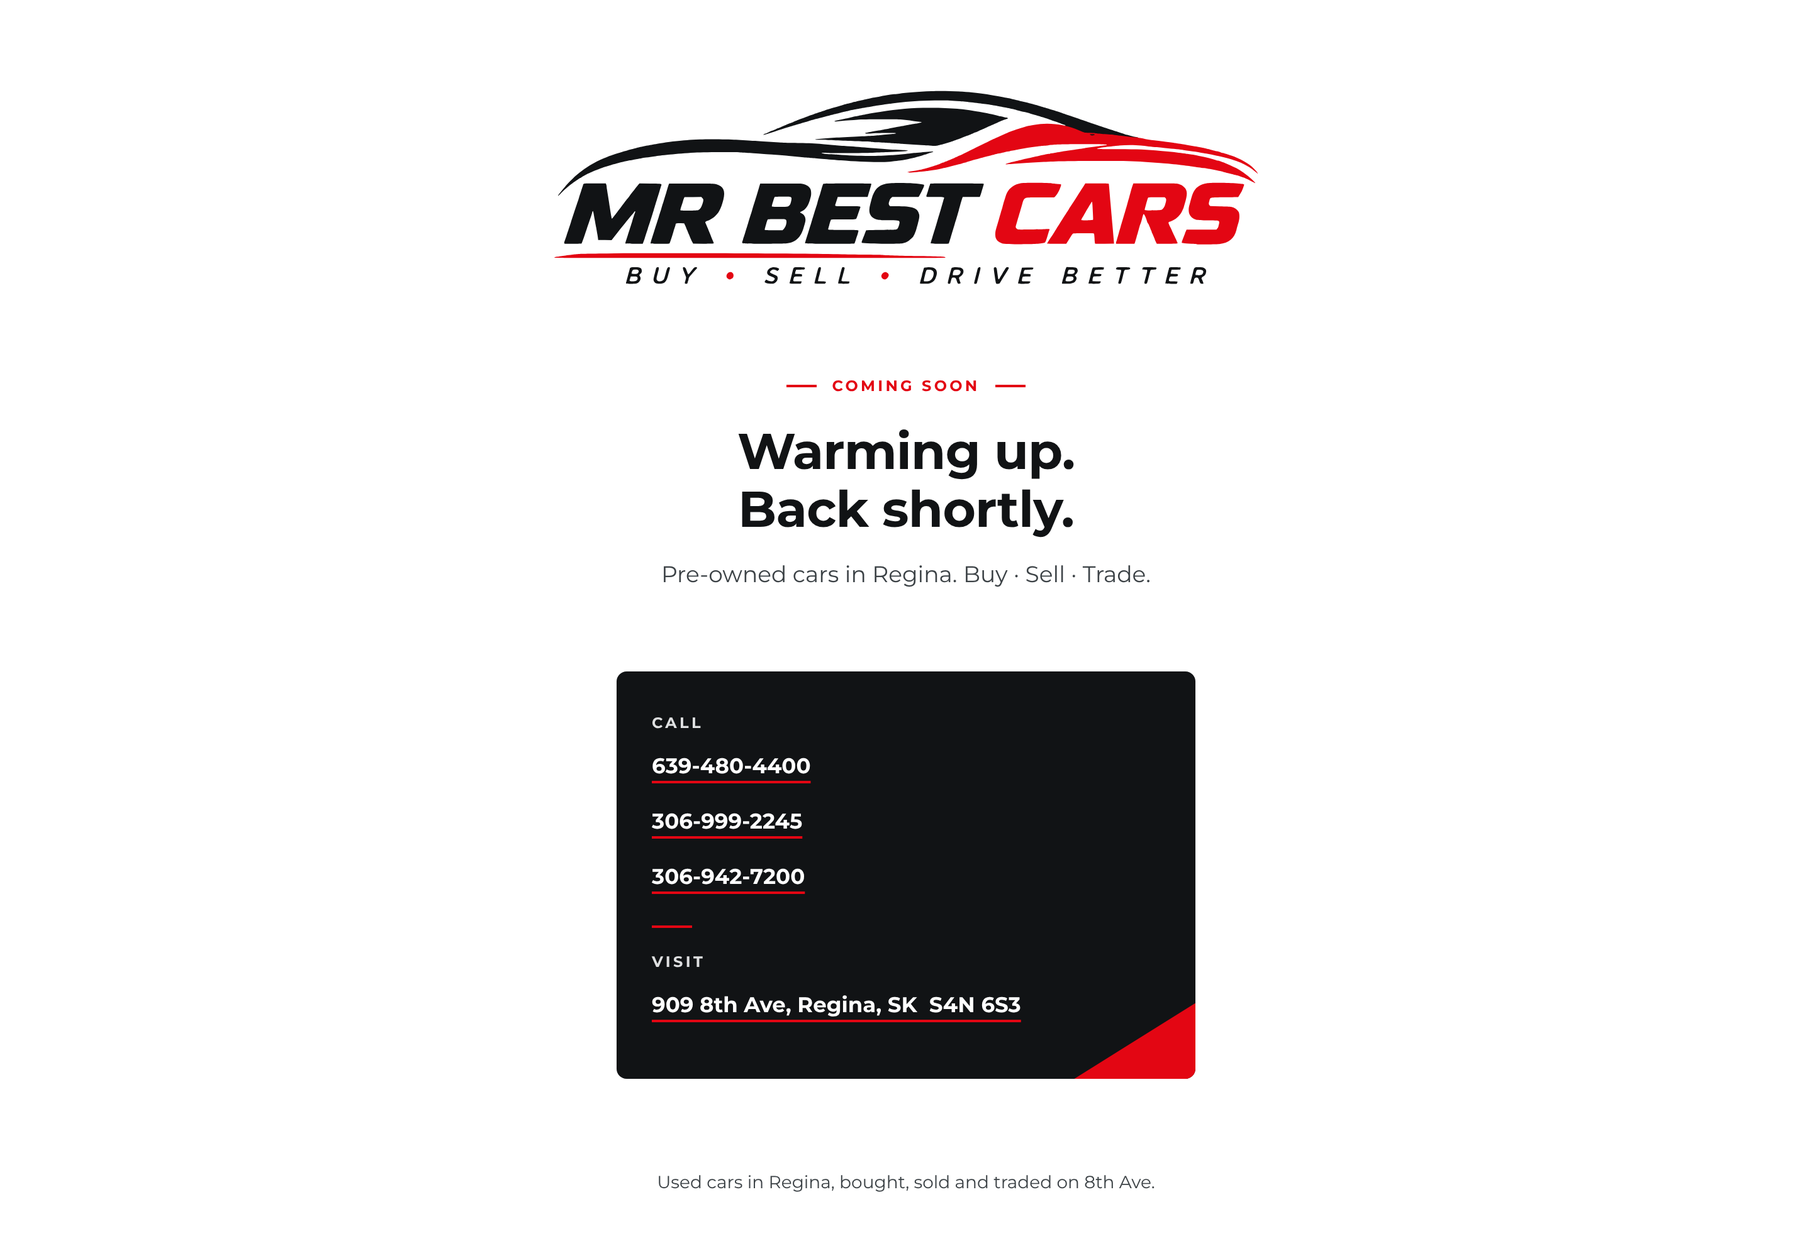
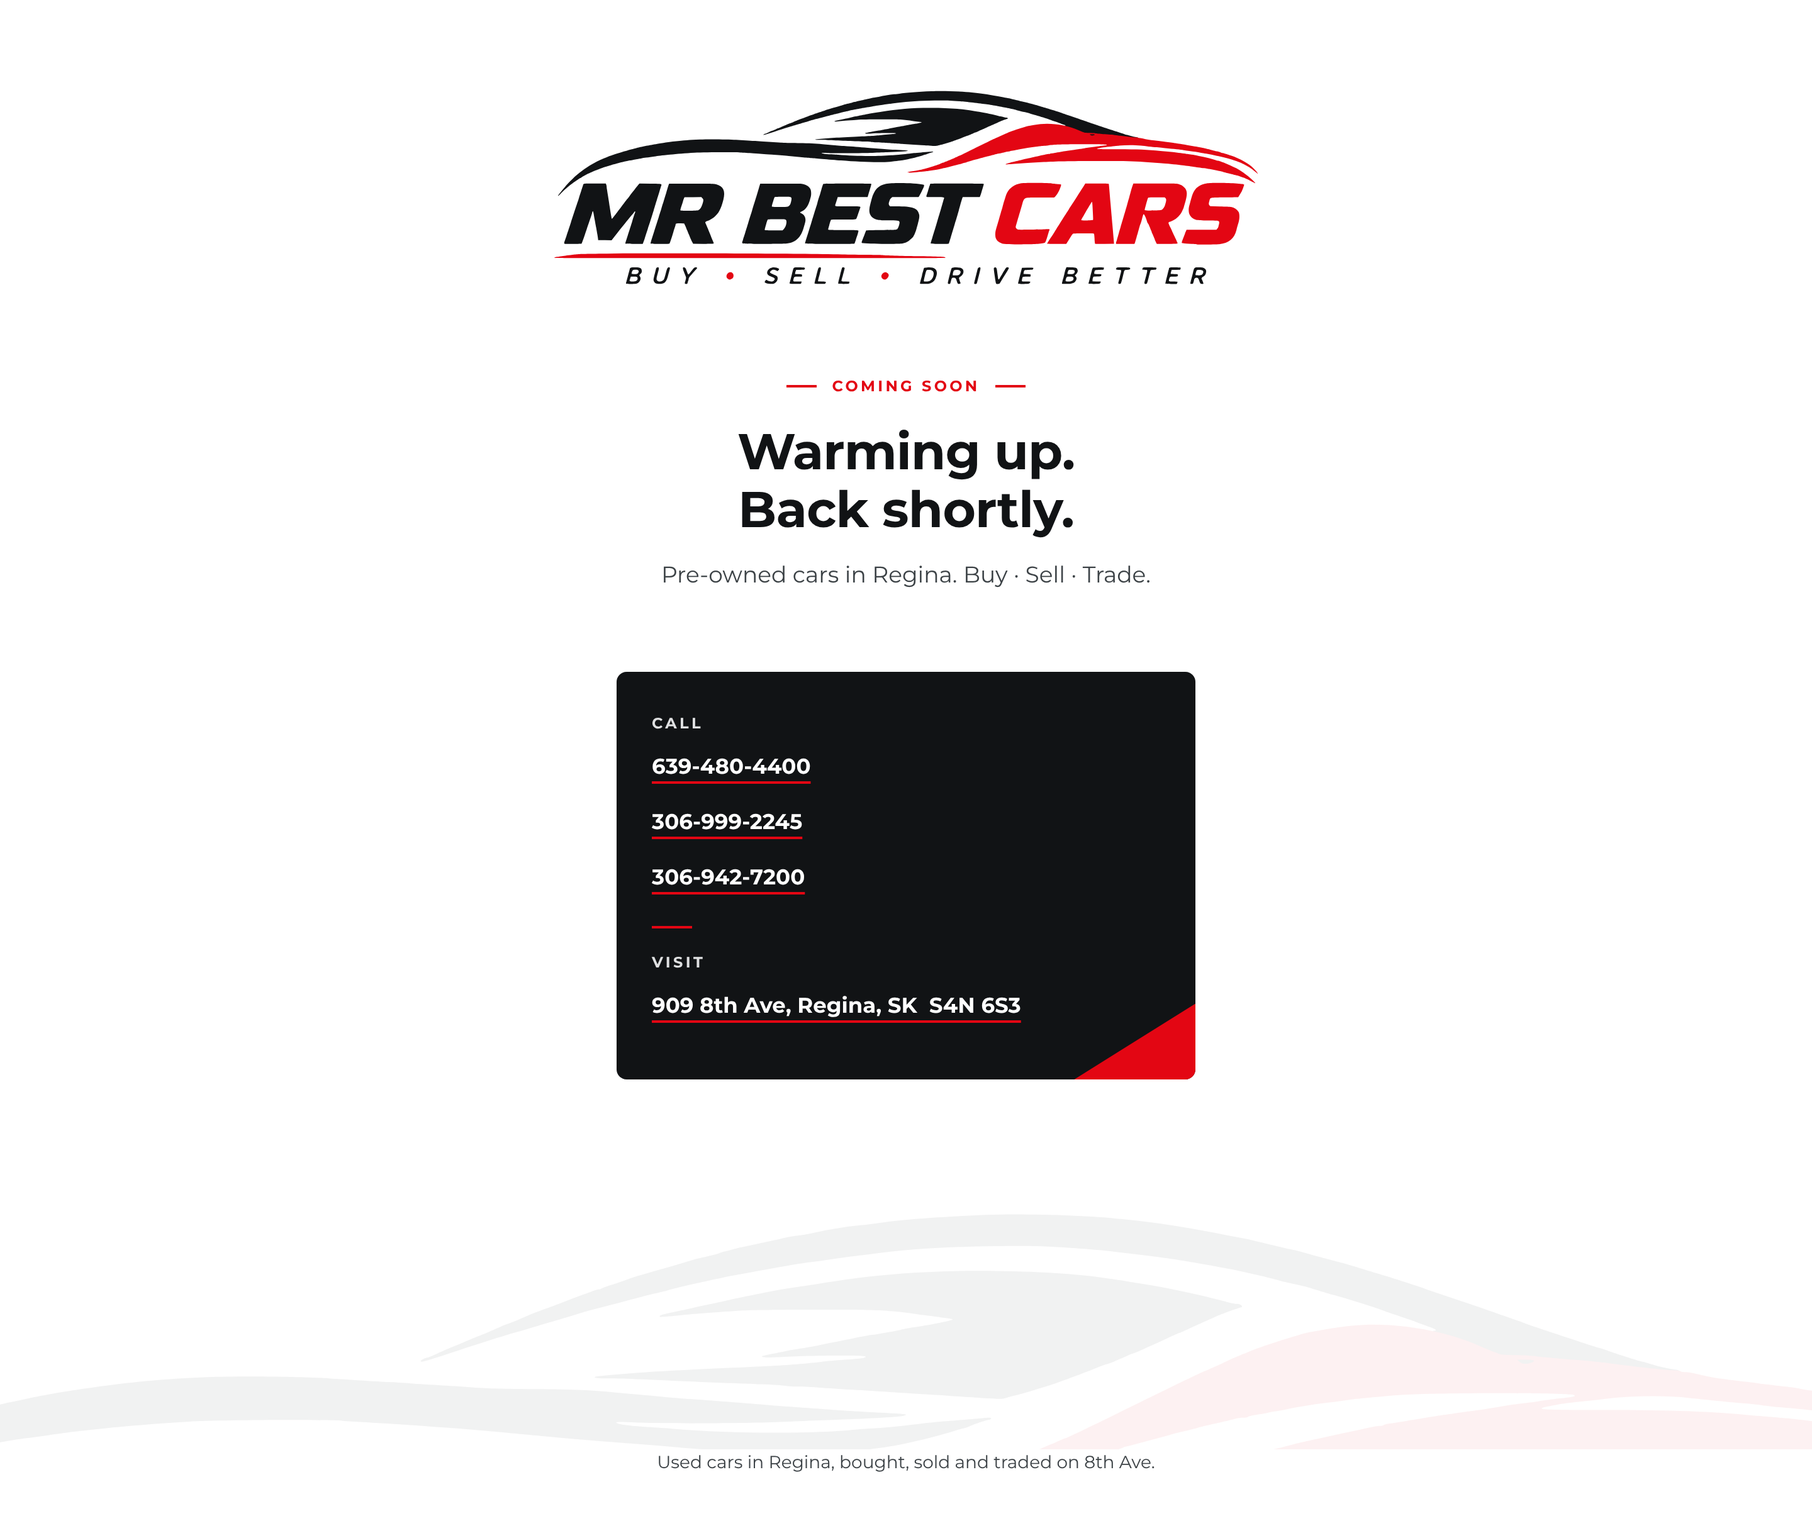
Ship sedan-mark background (Option A) on main page; remove /swym/preview-bg/
Claude-Session: https://claude.ai/code/session_0111nycAP5oJUybwEeT2RRwK

Changed region(s): [[0.3125, 0.0621, 0.6875, 0.8998], [0.5312, 0.9308, 0.625, 0.9619]]

diff --git a/site/swym/index.html b/site/swym/index.html
@@ -49,6 +49,8 @@ h1{margin-top:20px;max-width:16ch;font-size:clamp(2rem,1.6rem + 1.6vw,2.5rem);fo
 .links a:hover{text-decoration-color:var(--white)}
 a:focus-visible{outline:2px solid var(--white);outline-offset:3px;border-radius:4px}
 footer{padding:0 16px 32px;text-align:center;color:var(--slate);font-size:.875rem}
+.bg-a{position:relative;z-index:0;height:clamp(90px,16vw,230px);overflow:hidden;margin-top:-8px;pointer-events:none}
+.bg-a .bg-sedan{position:absolute;left:50%;transform:translateX(-50%);top:18%;width:max(130vw,700px);height:auto;opacity:.05}
 .veil{display:none}
 html.intro .veil{display:block;position:fixed;inset:0;z-index:10;background:var(--white);animation:mbc-out .4s 2.5s forwards}
 html.intro .site-header{position:relative;z-index:11}
@@ -110,6 +112,7 @@ html.intro #car-wipe-rect,html.intro #underline-wipe-rect{transform:scaleX(0);an
     </ul>
   </address>
 </main>
+<div class="bg-a" aria-hidden="true"><svg class="bg-sedan" viewBox="0 0 1138 172" aria-hidden="true" focusable="false"><path class="k" d="M7.2 165.4C12.4 160.2 19.2 154.3 24.5 150.6C29.3 147.2 37 142 37.3 142C37.5 142 38.2 141.6 38.9 141.1C40.2 140.2 44.2 137.9 48 135.9C49 135.4 51 134.5 52.6 133.8C54.2 133.1 56.7 132 58.1 131.3C59.6 130.7 61.5 129.9 62.5 129.5C63.5 129.2 64.7 128.7 65.2 128.5C65.8 128.3 67.5 127.6 69.1 127C70.7 126.5 73.2 125.6 74.6 125C79.8 123.1 92.8 119.3 100 117.5C103.5 116.6 114.8 114.1 117.8 113.5C119.4 113.2 121.7 112.7 122.8 112.5C123.8 112.2 126.2 111.8 128 111.5C129.8 111.2 133.2 110.6 135.5 110.2C137.8 109.8 141.7 109.2 144 108.9C148.7 108.4 152.4 107.9 157.8 107C162.8 106.2 169 105.5 183.2 104C193.7 102.9 208 101.8 222.8 100.9C237.1 100.1 286.7 99.8 296.8 100.5C301.4 100.8 311.1 101.4 318.2 101.8C330.8 102.6 333.4 102.8 348 103.9C351.7 104.2 357.9 104.7 361.8 105C365.6 105.3 370.9 105.8 373.5 106C376.1 106.3 380.7 106.7 383.8 107C386.8 107.3 391.5 107.7 394.2 108C410 109.5 412.2 109.6 429.8 111C438.2 111.6 453.7 112.9 460.5 113.5C490.6 116.1 525.2 117 539.8 115.6C553.3 114.2 561.5 113.1 568.8 111.5C579.6 109.1 588.4 106.8 594 104.9C595.6 104.4 597.1 104 597.4 104C597.7 104 599 103.6 600.1 103C602.5 101.9 608.4 100 609.3 100C609.6 100 610 99.7 610.1 99.4C610.3 98.9 609.1 98.9 604.1 99.4C600.6 99.7 594.4 100.2 590.2 100.5C586.1 100.8 581.1 101.3 579 101.5C568.1 102.9 560.5 103.7 554 104.1C550 104.3 544.6 104.7 542 105C520.1 106.9 483.1 106.6 455.8 104.3C453.8 104.1 448.5 103.8 444 103.5C434.8 102.9 429 102.1 429 101.3C429 101 432.1 101 437.9 101.3C451.1 102 491.1 101.8 508.2 101.1C516.5 100.7 528.8 100.2 535.5 100C552.5 99.4 566 98.6 567.8 98.1L569.2 97.6L568 97.3C567.3 97.2 564.3 96.9 561.2 96.8C550.4 96.3 537.1 95.5 531 95C527.6 94.7 521.5 94.3 517.5 94C513.5 93.7 507.3 93.3 503.8 93C490 91.9 479.9 91.1 465 90C461.8 89.8 456.7 89.3 453.5 89.1C450.3 88.8 445.1 88.3 441.8 88C438.4 87.7 433.4 87.3 430.5 87C417.1 85.7 409.3 85.3 390.2 85.2C379 85.2 366.6 84.9 362.8 84.6C358.9 84.3 351.9 83.8 347.2 83.5C342.6 83.2 335.1 82.8 330.8 82.5C326.4 82.2 321.2 81.9 319.2 81.8C313.9 81.5 299.2 80.6 290.2 80C276.9 79.1 246.4 78.8 231.2 79.4C213.7 80.2 205.9 80.8 190.2 82.5C183.4 83.3 168.4 85.4 162 86.5C156.1 87.5 147.7 89.1 145.8 89.5C142.3 90.2 139.4 90.9 136.5 91.5C133.8 92 132.2 92.4 128 93.5C126.8 93.8 124.9 94.3 123.9 94.5C119.3 95.7 118 96 114.5 97C112.4 97.6 110 98.3 109 98.5C103.1 100.1 88.7 104.8 87.4 105.5C86.9 105.8 86.2 106 85.8 106C85.3 106 84.6 106.2 84.1 106.5C82.9 107.1 80.1 108.3 77.5 109.3C68.6 112.6 56 119.2 47 125.4C37.7 131.8 37.6 131.9 29.3 139C26.1 141.7 16.2 151.9 12.5 156.2C1.6 169.3 0.3 171 1.4 171C1.6 171 4.2 168.5 7.2 165.4ZM617.2 89.5C618.3 89.2 620.1 88.7 621.2 88.4C623.4 87.9 629.5 86.2 631.5 85.5C632.2 85.3 634.4 84.6 636.5 84C641.1 82.6 656.1 77.1 662.2 74.5C662.8 74.2 664.4 73.7 665.8 73.2C667.1 72.8 669 72.1 669.9 71.7C670.8 71.3 672.3 70.6 673.4 70.2C674.4 69.8 675.9 69.1 676.7 68.7C677.5 68.3 678.4 68 678.6 68C678.9 68 680.5 67.4 682.2 66.6C685.1 65.2 687 64.4 691 62.6C692 62.2 694.6 61 696.8 59.9C699.1 58.9 701 58 701.2 58C701.4 58 703.2 57.2 705.1 56.3C707.1 55.4 709.8 54.1 711.1 53.6C715.7 51.5 718 50.5 720.2 49.5C721.4 49 724.1 48 726.3 47.2C728.5 46.5 730.6 45.8 730.9 45.7C732.1 45.3 730.6 44 729 44C728.2 44 726.2 43.6 724.6 43.2C723.1 42.8 721 42.2 720 42C719 41.8 716.3 41.1 714 40.5C703.8 38.1 690.8 35.5 681 34C679.2 33.7 676.5 33.3 675 33C655.1 29.7 640 28.5 612.2 28.1C580.4 27.7 554.3 29.6 525.5 34.5C524 34.7 521 35.2 518.8 35.5C514.2 36.1 509.8 36.8 506.2 37.5C501.2 38.5 485.7 41.6 484 42C480.4 42.8 476.7 43.6 474.6 44.1C471.7 44.7 468.6 45.3 466.2 45.9C465.1 46.2 461.2 47 457.5 47.8C451.1 49.1 449.5 49.6 450.1 50.3C450.3 50.4 453.5 50.2 457.3 49.8C464.2 49 469.7 48.6 486.8 47.4C492.5 47 506.5 46.8 525 46.8C556.8 46.8 561.4 47 577.8 49.5C579.4 49.7 583.2 50.2 586.1 50.6C589.1 50.9 591.5 51.3 591.5 51.5C591.5 51.8 588.5 52.5 580.8 54C579.6 54.2 576.5 54.7 573.8 55.2C571 55.6 567.7 56.2 566.5 56.5C563.9 57.1 556.4 58.4 552.5 59C551 59.2 546.8 60 543.2 60.7C539.7 61.4 535 62.4 532.8 62.8C530.5 63.3 527.7 63.8 526.5 64.1C524 64.6 519.7 65.3 515.2 66C513.6 66.2 511.2 66.7 510 67C508.8 67.3 506 67.8 503.8 68.2C501.7 68.6 499.8 69.1 499.6 69.2C498.8 70 500.9 70.1 510.4 69.6C523.1 68.9 549.5 68.8 549.5 69.5C549.5 70.1 547.5 70.4 539.2 71C535.4 71.3 530.3 71.7 528 72C516.4 73.3 508 73.9 481.5 75C451.3 76.4 437.4 77.2 421.9 78.8C416.4 79.3 418 80 424.9 80C428.4 80 436 80.2 441.8 80.5C457.7 81.3 487.2 82.5 497.2 82.8C502.2 82.9 507.9 83.2 509.9 83.5C511.9 83.8 515.2 84 517.3 84C519.3 84 523.7 84.2 527.1 84.5C530.5 84.7 537.6 85.2 543 85.5C548.4 85.8 555.8 86.3 559.5 86.5C563.2 86.8 570 87.2 574.5 87.5C579 87.8 586.4 88.2 590.8 88.5C616.2 90.2 614.7 90.1 617.2 89.5ZM942.2 77.7C943.6 77.1 943 76.1 941.1 75.8C937 75.2 933.5 74.5 929.7 73.3C927.5 72.6 925.5 72 925.1 72C924.8 72 922.9 71.5 921.1 70.9C915.8 69.3 908.8 67 907.8 66.5C907.2 66.3 905.2 65.6 903.2 65.1C898.8 63.7 871.8 54.8 868.9 53.7C867.7 53.3 866.3 52.7 865.8 52.5C865.2 52.3 862.6 51.4 860 50.5C857.4 49.7 854.8 48.8 854.2 48.5C853.3 48.1 842.9 44.5 827 39.2C823.3 38 819.8 36.8 819.2 36.5C818 36 801.1 30.5 796 29.1C793.9 28.4 790.1 27.3 787.5 26.5C784.9 25.7 781.4 24.7 779.8 24.2C778.1 23.8 776.1 23.2 775.2 23C774.4 22.8 772.3 22.2 770.5 21.8C768.7 21.3 765.8 20.5 764 20C759.5 18.7 757.2 18.1 754 17.5C752.5 17.2 750.6 16.7 749.8 16.5C748.3 16.1 744.4 15.2 736.2 13.2C734.3 12.8 731.6 12.2 730.2 12C728.9 11.8 725.3 11.1 722.2 10.5C702.3 6.6 693.2 5.2 672.8 3C656.9 1.2 625.9 0.3 607.5 1C584.9 1.9 566 3.3 555.2 5C553.3 5.3 549.5 5.8 546.8 6C544 6.3 540.4 6.7 538.8 7C537.1 7.3 534.5 7.7 533 8C529.9 8.5 526.5 9.2 522.8 10C521.4 10.3 518.7 10.7 516.8 11C514.8 11.2 512.7 11.6 512 11.7C510.4 12.1 507.6 12.8 504 13.5C502.5 13.8 499.4 14.5 497.2 15C495.1 15.5 491.9 16.2 490.2 16.5C488.6 16.8 486.7 17.3 486 17.5C485.3 17.7 483.6 18.2 482.2 18.5C480.9 18.8 479.3 19.3 478.8 19.5C477.8 19.9 472.8 21.1 468.8 22C467.6 22.2 465.3 22.9 463.5 23.5C461.7 24.1 458.7 25 456.8 25.5C444.1 29 437.8 30.9 431.8 33.1C430.6 33.5 428.1 34.4 426 35C423.9 35.7 422 36.4 421.8 36.6C421.5 36.8 420.9 37 420.5 37C420 37 418.5 37.4 417.2 38C415.8 38.5 413.5 39.4 412 39.9C410.5 40.5 406.8 41.8 403.8 43C400.7 44.2 396.4 45.8 394.2 46.6C392.1 47.4 389.7 48.3 389.1 48.5C388.5 48.8 387.5 49.2 386.9 49.4C386.3 49.7 384.6 50.4 383.2 51C380.4 52.3 379.5 52.6 377 53.5C376 53.8 374.4 54.5 373.2 55C370.2 56.4 364.2 58.9 362.8 59.5C362.2 59.7 361.1 60.1 360.4 60.4C359.6 60.7 358.5 61.2 357.9 61.4C357.3 61.7 355.9 62.3 354.8 62.8C351.4 64.2 349.3 65.1 348.2 65.5C347.7 65.7 345.2 66.8 342.7 67.9C340.1 69.1 337.9 70 337.6 70C336.9 70 334.5 71.2 334.5 71.6C334.5 72.4 336.1 71.9 346.4 68.6C364.5 62.6 374.4 59.5 381.8 57.4C382.9 57.1 385 56.5 386.5 56C388 55.5 390.1 54.9 391.2 54.6C393.8 53.9 399.4 52.2 403.2 51.1C404.9 50.6 407.3 49.9 408.5 49.5C409.7 49.1 411.8 48.5 413 48.1C414.2 47.7 417.7 46.8 420.8 46C423.8 45.2 427.9 44.1 430 43.6C437.4 41.6 445.8 39.4 447.8 39C448.9 38.7 451.4 38.1 453.5 37.6C455.6 37 458.5 36.3 460 35.9C461.5 35.5 464.1 34.9 465.8 34.5C467.4 34.2 470.6 33.5 472.8 33C480.2 31.3 484.7 30.4 487.2 30C488.6 29.8 491.4 29.3 493.5 28.9C495.6 28.4 499.8 27.6 503 27.1C506.2 26.5 510.9 25.7 513.5 25.2C516.1 24.8 519.9 24.2 522 23.9C524.1 23.7 527.3 23.3 529.2 23C536.1 22 539.8 21.5 543.8 21C546 20.7 549.5 20.3 551.8 20C571.1 17.5 587.4 16.5 612.5 16.1C631.3 15.9 636.9 16.1 656 17.5C665.4 18.2 690.3 21.1 698.8 22.5C704.2 23.4 711.7 24.6 714 25.1C715.2 25.3 717.5 25.7 719 26C724.7 27 726.9 27.4 732.8 28.7C741.7 30.7 743 31 745.8 31.8C748.1 32.5 752.8 33.6 759.2 35C762 35.6 764.2 36.2 768 37.5C769.8 38.1 772.9 39 775 39.6C781.4 41.2 798 46.5 800.2 47.5C800.8 47.8 804.1 48.9 807.5 50C810.9 51.2 814.2 52.3 814.8 52.5C816.1 53.1 820.9 54.8 823.1 55.6C825.1 56.2 825.6 57 824.1 57C822.3 57 825.2 58.5 830.5 60.2C837.5 62.5 842.6 64.4 849 67.1C857.6 70.7 857.3 70.7 860.5 70.3C862.8 70.1 863.5 70.2 863.5 70.6C863.4 71 863.4 71.5 863.4 71.9C863.5 72.8 866.5 74.5 868.1 74.5C870.1 74.5 873.4 73.1 873.7 72.1C874 71.1 874.9 71.1 890 72.3C898.9 73 901.7 73.3 911 74.5C915.3 75 917.7 75.3 930 76.7C933.7 77.2 937.6 77.5 938.6 77.4C939.6 77.4 940.6 77.5 940.8 77.7C941.2 78.1 941.2 78.1 942.2 77.7Z"/><path class="r" d="M1133 150.1C1133 149.5 1126.4 143.2 1121 138.7C1116.1 134.6 1106 127.8 1102 125.9C1093.9 122.1 1087 119 1086.6 119C1086.4 119 1085.3 118.6 1084.2 118.1C1082.2 117.1 1075.6 114.7 1072.8 114C1071.9 113.8 1069.7 113.1 1067.8 112.5C1061.6 110.6 1057.3 109.4 1055 109C1053.8 108.7 1051.7 108.3 1050.5 108C1049.3 107.7 1047 107.3 1045.5 107C1044 106.7 1041.7 106.2 1040.5 105.9C1035.9 105 1033.1 104.5 1029.5 104C1027.4 103.7 1024.5 103.3 1023 103C1019.4 102.3 1011.8 101.3 1001.5 100C999.2 99.7 994.4 99.2 991 99C987.6 98.7 982.3 98.3 979.2 98C957.1 95.9 939.7 95.3 907.4 95.3C871.5 95.2 870.2 95.1 884.9 92.5C886.5 92.2 891.2 91.6 895.5 91.2C899.8 90.7 904.9 90.2 907 89.9C920.5 88.4 935.5 88.2 947.5 89.5C950.1 89.8 955.7 90.3 960 90.8C964.3 91.2 970.2 91.8 973.2 92C976.3 92.2 980.4 92.7 982.5 93C984.6 93.3 988.7 93.8 991.8 94C1005.3 95.2 1014.5 96.2 1018.5 97C1020 97.3 1023.3 97.7 1025.8 98C1033.4 98.9 1038.3 99.6 1045.2 101C1046.6 101.3 1050.3 101.9 1053.5 102.4C1056.7 103 1061.4 103.9 1064 104.5C1066.6 105 1070.4 105.9 1072.5 106.3C1085.5 109 1096.1 112.1 1108.9 117C1110.7 117.7 1117.5 121.1 1121.7 123.5C1125.1 125.4 1131.7 130.3 1134.7 133.1C1135.8 134.2 1136.7 135 1136.8 135C1138.4 135 1131.5 126.8 1126.5 122.8C1118 115.9 1105.5 109.4 1093.5 105.5C1092 105 1089.8 104.3 1088.8 103.9C1087.7 103.5 1085.8 102.9 1084.6 102.6C1083.5 102.3 1081.5 101.7 1080.4 101.4C1079.2 101.1 1077.8 100.7 1077.2 100.5C1076.3 100.1 1073.8 99.4 1071 98.7C1070.3 98.6 1065.4 97.3 1060 95.9C1054.6 94.6 1049.1 93.2 1047.6 93C1044.3 92.4 1039.9 91.5 1037 91C1034.2 90.4 1029.6 89.6 1025.8 89C1024.1 88.7 1021.7 88.3 1020.5 88C1019.3 87.7 1016.5 87.3 1014.2 87C1006.7 86 1003.7 85.5 1001 85C999.5 84.7 996.2 84.2 993.8 84C991.3 83.7 987.7 83.3 985.8 83C983.8 82.8 980.3 82.3 978 82C975.7 81.7 971.8 81.3 969.5 81C962.4 80.2 955.7 79.1 950.8 77.8C949.1 77.4 946.8 77 945.7 77C944.5 77 943.4 76.8 943.3 76.6C943.2 76.4 941.5 76.2 939.7 76.1C936.2 76 923.8 74.6 911 73C901 71.7 898.7 71.5 888.5 70.8C882.6 70.3 876 69.7 873.8 69.4C871.5 69.1 866.8 68.8 863.2 68.8C859.7 68.7 856.3 68.5 855.8 68.3C855.2 68.1 854.3 67.7 853.8 67.5C853.2 67.3 851.9 66.8 850.8 66.3C849.6 65.9 847.5 65 846 64.3C832.1 58 812.4 54 795 54C788.7 54 779.9 54.8 773.4 56C771.8 56.3 769.3 56.7 767.9 57C762.6 57.9 761.7 58.1 759 59C757.5 59.5 755.2 60.1 754 60.5C749.8 61.7 740 65 736.1 66.5C735 67 733.5 67.6 731.4 68.4C729.4 69.3 726.3 70.6 723.2 72C720.3 73.4 717.4 74.7 713 76.6C709.8 78 703.3 81.1 688.5 88.4C681.5 91.8 670.6 97.2 664.2 100.3C651.7 106.4 646.2 109 645.8 109C645.6 109 644.1 109.7 642.2 110.5C640.4 111.3 638.9 112 638.7 112C638.6 112 637.1 112.6 635.4 113.4C633.7 114.2 631.4 115.2 630.2 115.5C629.1 115.9 628 116.4 627.8 116.6C627.5 116.8 627 117 626.6 117C626.3 117 624.9 117.5 623.6 118C619.7 119.8 619.4 119.9 616 121C614.2 121.5 611 122.6 608.8 123.3C606.5 124 604 124.8 603 125.1C602 125.3 600.5 125.8 599.5 126.1C597.7 126.6 591.5 128.2 587.8 129C586.6 129.3 584.4 129.7 582.8 130C581.1 130.2 578.1 130.7 576 131C570.4 131.8 568.8 132.2 568.6 132.8C568.4 133.4 575 133.3 583.2 132.5C594.8 131.4 599.4 130.9 602.2 130.5C603.9 130.2 606.9 129.8 609 129.5C614.3 128.7 618.4 128 621 127.4C622.2 127.2 624.1 126.7 625.2 126.5C630.3 125.4 637.1 123.8 640.2 122.9C642.2 122.4 645.7 121.5 648 120.9C650.3 120.3 654.4 119.2 657 118.4C659.6 117.6 662.1 117 662.5 117C663 117 663.5 116.8 663.8 116.6C664 116.3 666.3 115.6 668.8 115C671.2 114.4 673.5 113.7 673.8 113.5C674 113.3 674.8 113 675.5 112.9C677.1 112.6 688.5 109.5 696.6 107.3C699.4 106.5 700.4 106.2 704 105.4C705.2 105.1 707.7 104.5 709.5 104C711.3 103.5 714 102.8 715.5 102.5C720.2 101.5 726.7 100 728.3 99.5C729.1 99.2 730.7 99 731.9 99C733 99 734.1 98.8 734.2 98.6C734.3 98.4 736.4 97.9 738.9 97.5C741.3 97.2 743.6 96.8 744 96.6C744.4 96.5 745.8 96.2 747 96C748.2 95.8 750.5 95.4 752.1 95.1C760.5 93.4 767 92.4 774.8 91.5C777.5 91.2 780.9 90.7 782.2 90.5C783.6 90.2 786.3 89.9 788.2 89.8C790.2 89.6 794 89.2 796.8 89C808.3 87.7 816.6 87.4 841.2 87.2C866.5 87 891.1 87.4 891.8 88.1C892.5 88.8 891.8 88.9 884.7 89.7C880.9 90.2 876.4 90.7 874.8 91C873.1 91.3 869.7 91.7 867.2 92C864.8 92.3 861.4 92.7 859.8 93C853.6 94.1 850.8 94.5 847.1 95.1C845 95.3 841.9 95.8 840.2 96C838.6 96.3 835.5 96.7 833.2 97C831 97.3 827.9 97.7 826.2 98C822.3 98.6 811.5 100.4 808 101C806.5 101.3 804.1 101.7 802.6 101.8C801.2 102 799.9 102.3 799.7 102.6C799.6 102.8 798.7 103 797.8 103C797 103 794.7 103.4 792.7 103.8C790.8 104.2 786.2 105.2 782.5 106C778.8 106.8 773.6 107.9 771 108.5C768.4 109.1 765.2 109.8 764 110C761.5 110.5 758 111.3 749.8 113.5C746.7 114.3 742.1 115.4 739.5 116C729 118.4 724.5 120.4 730.9 119.8C735.3 119.4 746.3 118.6 756 118C765.3 117.5 778.2 116.7 789.8 116C807.8 114.8 833.3 114.3 873.5 114.3C921.6 114.2 936.7 114.7 967 117C971 117.3 977.3 117.8 981 118C987.7 118.4 1003.6 119.9 1012.2 121C1014.7 121.3 1019.6 121.9 1023 122.3C1026.4 122.7 1030.5 123.3 1032 123.5C1033.5 123.8 1037.5 124.4 1040.8 124.8C1044 125.2 1048.1 125.7 1049.8 126C1061.4 127.8 1080.1 131.6 1082.2 132.5C1083.1 132.8 1086.3 133.6 1092.5 135C1094.1 135.4 1100.3 137 1103.8 138C1105.7 138.5 1115.5 141.9 1116.8 142.5C1120.5 144.1 1129.5 148.6 1130.8 149.5C1132.4 150.6 1133 150.7 1133 150.1ZM865.4 72L864.2 71L868.4 71C872.7 71 873.6 71.5 870.9 72.5C868.6 73.3 866.8 73.1 865.4 72Z"/></svg></div>
 <footer>
   <p>Used cars in Regina, bought, sold and traded on 8th Ave.</p>
 </footer>

diff --git a/deliverables/NOTES.md b/deliverables/NOTES.md
@@ -1,6 +1,6 @@
 # Mr Best Cars: coming-soon page, delivery notes (v3: Brand Guidelines v1.0)
 
-The live page is `site/swym/index.html` at https://jayantarora.in/swym/. The background preview is `site/swym/preview-bg/` (noindex).
+The live page is `site/swym/index.html` at https://jayantarora.in/swym/.
 The folder `site/swym/` can be deployed as-is to any static host.
 
 ## Source
@@ -10,7 +10,7 @@ Brand Guidelines v1.0 (November 2026, 29 pages). The page now follows it. All lo
 |---|---|
 | Logo inlined in the page, `assets/mr-best-cars-logo.svg` | 1144×315 primary master (p. 3), traced to vectors in the two supplied colours #111315 / #E30613 |
 | `assets/mr-best-cars-logo-on-dark.svg` | The same, with black swapped for white only, as p. 4 specifies |
-| `assets/mr-best-cars-sedan-mark.svg` | 1138×172 sedan mark (p. 8), used only on the background preview |
+| `assets/mr-best-cars-sedan-mark.svg`, also inlined | 1138×172 sedan mark (p. 8), used as the page's background decoration |
 | `favicon-32.png`, `apple-touch-icon.png` | 297×290 app icon (p. 8), resized; no tracing |
 | `og-image.png` | Primary logo on white plus the corner wedge, laid out like the social cover (p. 26) |
 
@@ -20,6 +20,9 @@ Brand Guidelines v1.0 (November 2026, 29 pages). The page now follows it. All lo
 - **Logo (pp. 5–7):** screen size 280–560 px wide, above the 260 px minimum. Clear space of one X is kept on every side. The logo is never placed on ink in full colour.
 - **Graphic elements (p. 17):** short red rule between groups, red underline on contact links, and the corner wedge at the exact geometry (starts 79% along the bottom, meets the right edge at 77% of a 3.5×2 card). On tall phone cards it keeps the same angle.
 - **Tone (p. 19):** "Warming up. Back shortly." is one of the guideline's own example headlines.
+
+## Background
+The supplied sedan mark sits at 5% opacity as a wide, full-bleed band across the bottom of the page, above the footer line and cropped by the screen edges. You chose this placement (Option A) from three mock-ups. It never sits behind text. It is decoration at large size, as p. 17 allows, and the primary logo stays the main brand mark. It is `aria-hidden`.
 
 ## Contact
 Rohit Chawla and his title were removed at your request. The three phones are 639-480-4400, 306-999-2245 and 306-942-7200, all `tel:` links and all listed in the JSON-LD. The address is 909 8th Ave, Regina, SK  S4N 6S3, with a maps link and the postal code in the JSON-LD. The card uses small "Call" and "Visit" labels.

diff --git a/deliverables/BACKGROUND_RESEARCH.md b/deliverables/BACKGROUND_RESEARCH.md
@@ -2,7 +2,7 @@
 
 > **Update after Brand Guidelines v1.0:** the guidelines already define a decorative element, the **sedan mark** (p. 8: "Derived. Decoration; carries no name"; p. 17: "Decoration only, at large sizes, never as the only brand mark"). That changes the recommendation. **Use the sedan mark, not the invented wheel drawing.** The wheel was original art, the user asked for nothing new to be created, and the guidelines now supply an approved piece.
 >
-> **Preview now shows:** the supplied sedan mark at large size, about 7% opacity (6% on phones), bleeding off the right edge so it appears to drive out from behind the contact card. It never sits behind any text, and the primary logo stays the main brand mark.
+> **Shipped (client's choice, Option A):** the supplied sedan mark at 5% opacity as a wide, full-bleed band across the bottom of the page above the footer line. It never sits behind text, and the primary logo stays the main brand mark. The temporary preview URL has been removed.
 >
 > **Why the sedan mark beats the wheel** (same evidence as below):
 > - **Repetition and mere exposure:** repeating a brand shape raises processing fluency and liking (Reber, Schwarz & Winkielman 2004 list stimulus repetition as a fluency driver). The wheel was a new shape to learn; the sedan mark repeats the logo.
@@ -22,8 +22,6 @@
 
 **Answer:** Yes, but only in one narrow form. Use a single fine-line drawing of a wheel with its brake disc, in brand black at about 7% opacity. It sits at the bottom-right edge, partly cropped by the screen, and never sits behind text. Everything else tested worse on the evidence below.
 
-Preview (not indexed, main page unchanged): https://jayantarora.in/swym/preview-bg/
-Screenshots: `deliverables/preview-bg-desktop-1440.png`, `-tablet-768.png`, `-mobile-360.png`
 
 ---
 
